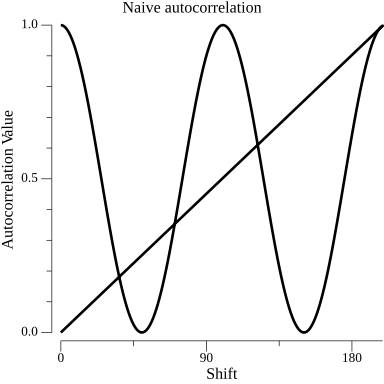
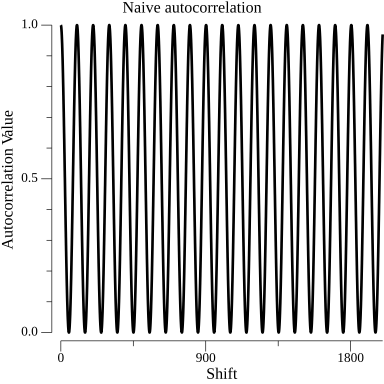
Fix FFT window size issues

diff --git a/main.go b/main.go
@@ -4,6 +4,7 @@ import (
 	"fmt"
 	"math"
 	"os"
+	"time"
 
 	//"github.com/go-audio/wav"
 	"github.com/go-audio/wav"
@@ -22,7 +23,7 @@ func plotAutocorrelation(correlation []float64, title string) *plot.Plot {
 	p.X.Label.Text = "Shift"
 	p.Y.Label.Text = "Autocorrelation Value"
 
-	data := make(plotter.XYs, 2000)
+	data := make(plotter.XYs, len(correlation))
 	for i := range correlation {
 		data[i] = plotter.XY{X: float64(i), Y: correlation[i]}
 	}
@@ -74,17 +75,22 @@ func main() {
 		return
 	}
 
-	// Plots
-	naive := utils.NormalizeArray(NaiveAutocorrelation(fullBuffer, 200))
-	opti := utils.NormalizeArray(OptimizedAutocorrelation(fullBuffer)[:200])
-	fmt.Printf("[naive] 440hz autocorrelation:")
-	fmt.Println(naive)
-	fmt.Printf("[optimized] 440hz autocorrelation:")
-	fmt.Println(opti)
+	slicedBuffer := utils.SliceBuffer(fullBuffer, 4096) //About 40 full cycles of A440
 
-	naivePlot := plotAutocorrelation(naive, "Naive autocorrelation")
+	start := time.Now()
+	naive := NaiveAutocorrelation(slicedBuffer, 200) // This is not a fair comparison as it only checks 200 offsets
+	fmt.Printf("Naive autocorrelation took %v\n", time.Since(start))
+
+	start2 := time.Now()
+	opti := OptimizedAutocorrelation(slicedBuffer) // ATTN: FFT WAY slower if frame size not divisible by 2
+	fmt.Printf("Optimized autocorrelation took %v\n", time.Since(start2))
+
+	naiveNorm := utils.NormalizeArray(naive)
+	optiNorm := utils.NormalizeArray(opti[:200])
+
+	naivePlot := plotAutocorrelation(naiveNorm, "Naive autocorrelation")
 	naivePlot.Save(4*vg.Inch, 4*vg.Inch, "naive.png")
 
-	optiPlot := plotAutocorrelation(opti, "Optimized autocorrelation")
+	optiPlot := plotAutocorrelation(optiNorm, "Optimized autocorrelation")
 	optiPlot.Save(4*vg.Inch, 4*vg.Inch, "optimized.png")
 }

diff --git a/autocorrelation.optimized.go b/autocorrelation.optimized.go
@@ -1,6 +1,8 @@
 package main
 
 import (
+	"fmt"
+
 	"github.com/go-audio/audio"
 	"github.com/mjibson/go-dsp/fft"
 	"github.com/vobie/snac-spectrum/utils"
@@ -15,8 +17,18 @@ Computes autocorrelation using Wiener-Khinchin theorem
 4. Discard complex component
 */
 func OptimizedAutocorrelation(buf *audio.IntBuffer) []float64 {
+
+	// ATTN: This may be an issue for SNAC when choosing window size, resampling may be needed
+	// Could implement automatic resampling for convenience here, but always warn as time is of the essence
+	n := buf.NumFrames()
+	if n > 0 && (n&(n-1)) != 0 {
+		fmt.Printf("FFT WARNING: Frame size not power of 2\n")
+	}
+
+	// ATTN: FFT is WAY slower if frame size not divisible by 2
 	fftResult := fft.FFTReal(utils.BufferToFloat64(buf))
 
+	// FIXME: Optimize this step
 	powerSpectrum := make([]complex128, len(fftResult))
 	for i, val := range fftResult {
 		powerSpectrum[i] = complex(real(val)*real(val)+imag(val)*imag(val), 0)

diff --git a/utils/conversions.go b/utils/conversions.go
@@ -51,3 +51,16 @@ func NormalizeArray(arr []float64) []float64 {
 
 	return normalized
 }
+
+func SliceBuffer(existingBuffer *audio.IntBuffer, N int) *audio.IntBuffer {
+	if N > len(existingBuffer.Data) {
+		N = len(existingBuffer.Data)
+	}
+
+	newBuffer := &audio.IntBuffer{
+		Data:   existingBuffer.Data[:N],
+		Format: existingBuffer.Format,
+	}
+
+	return newBuffer
+}
